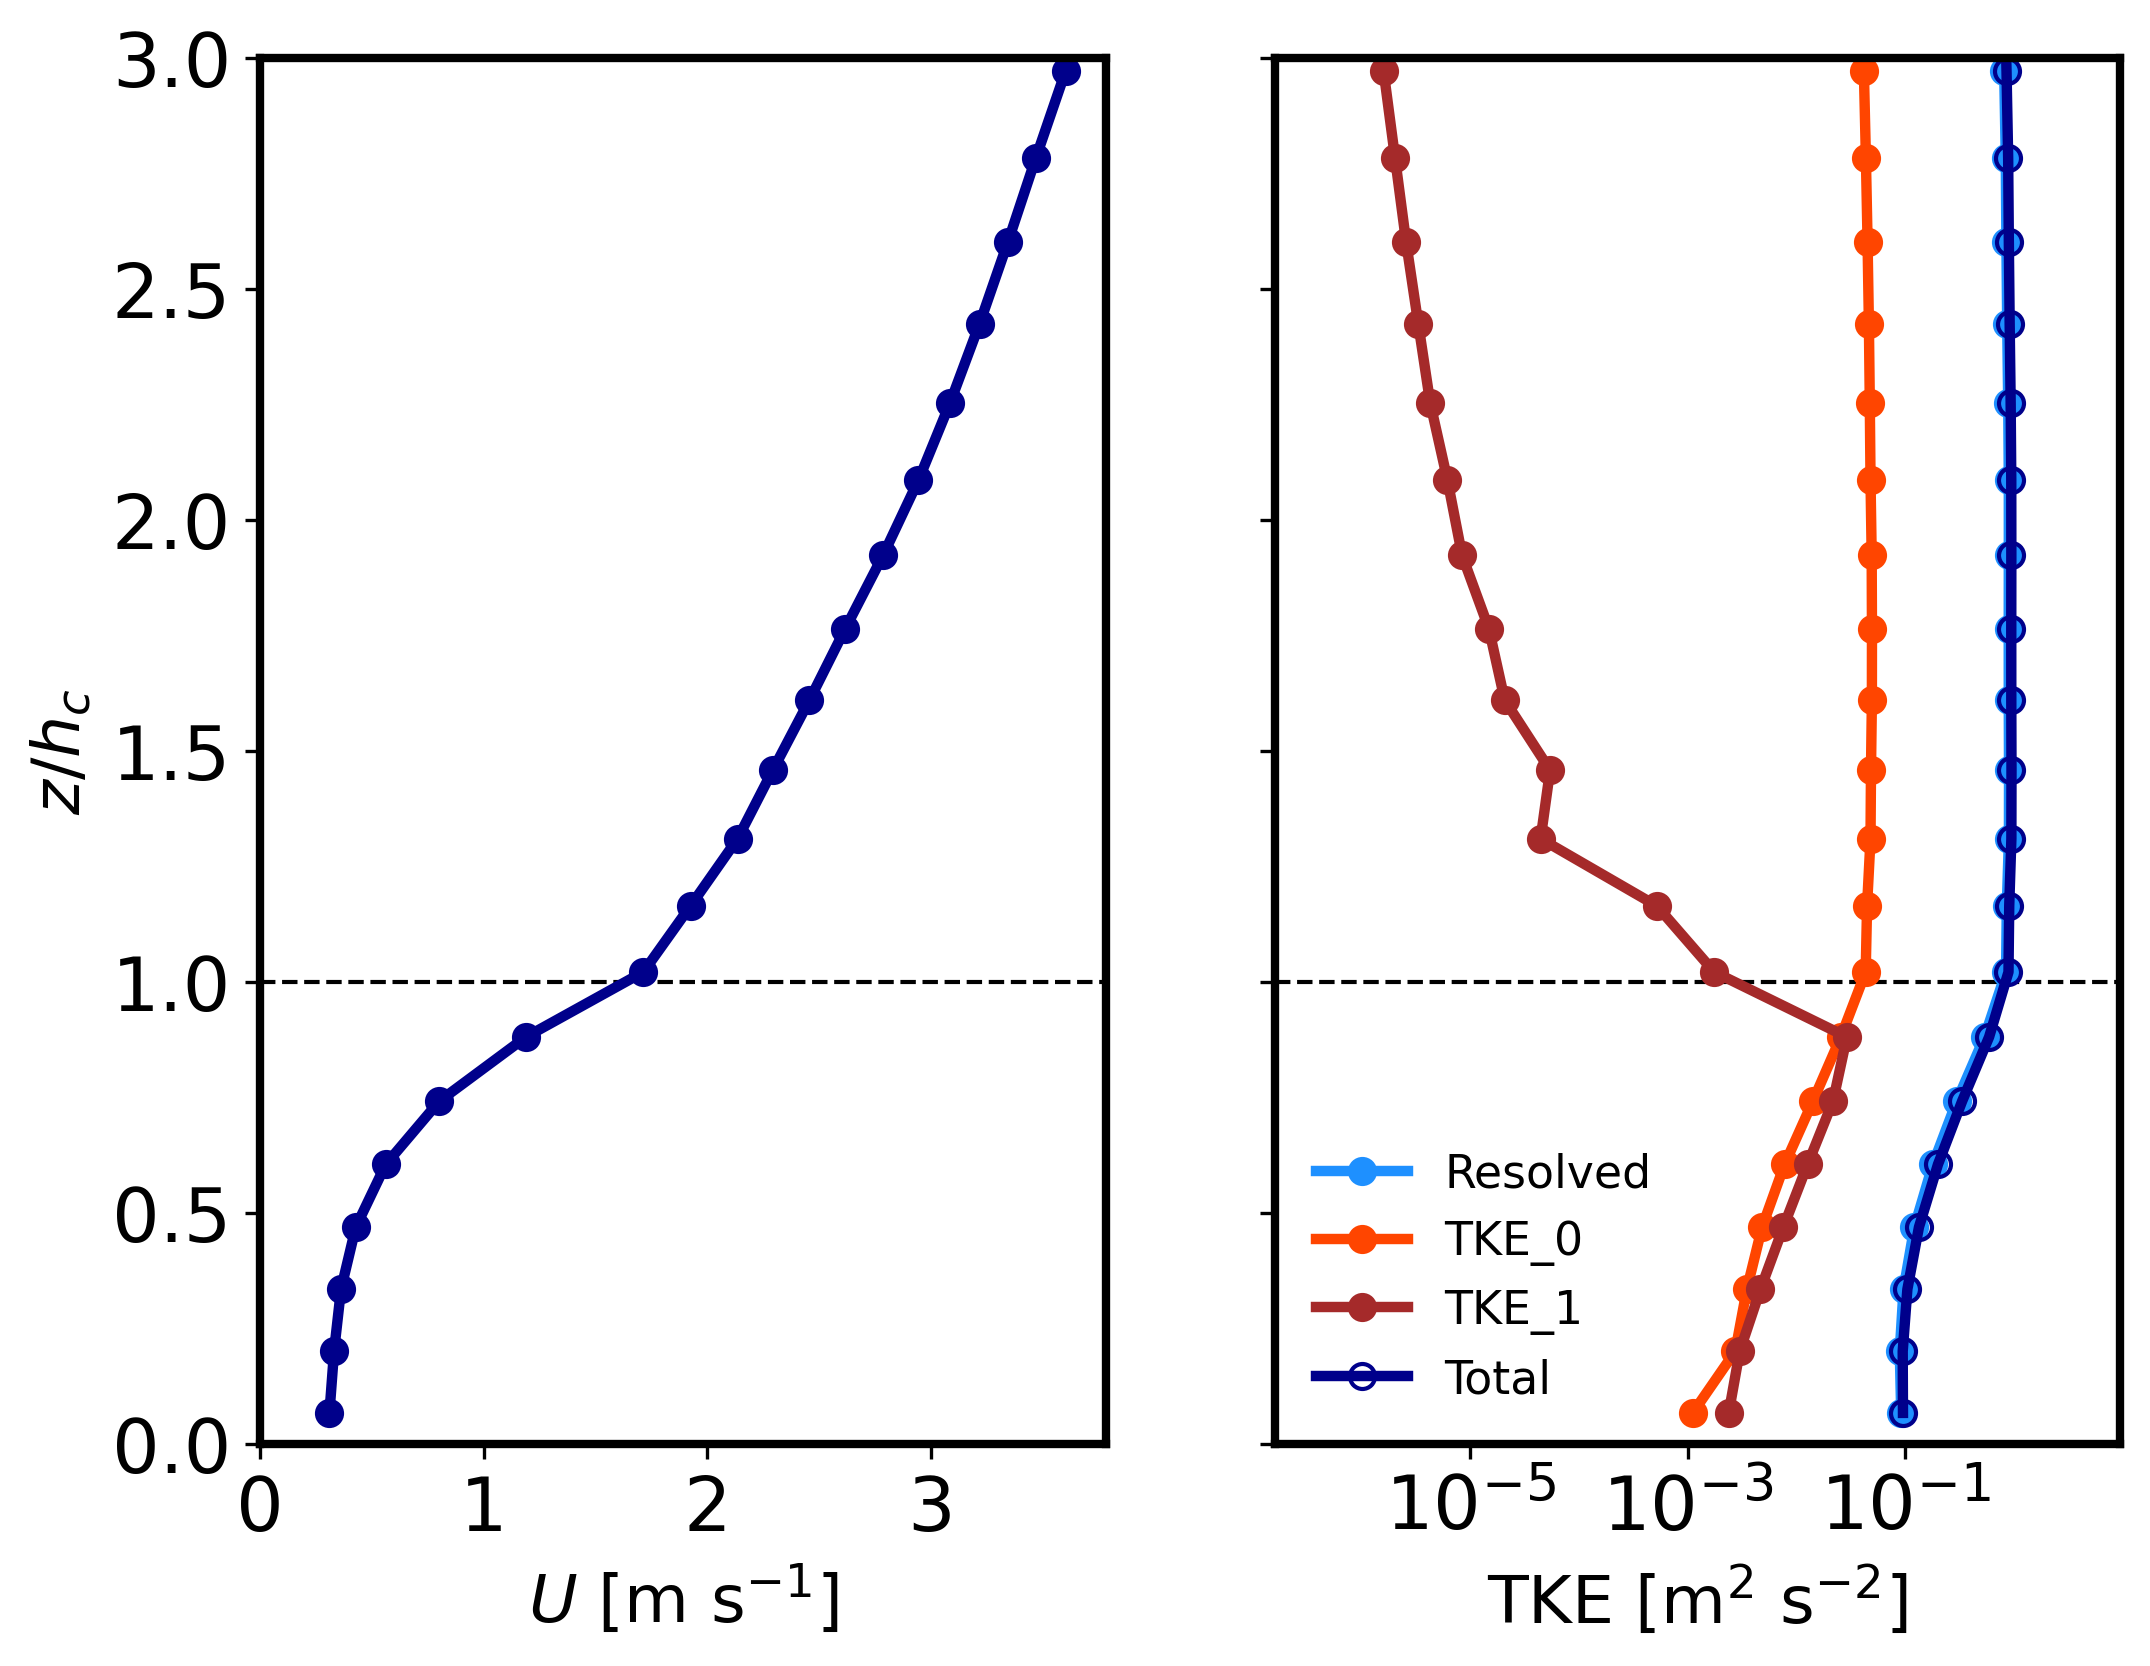
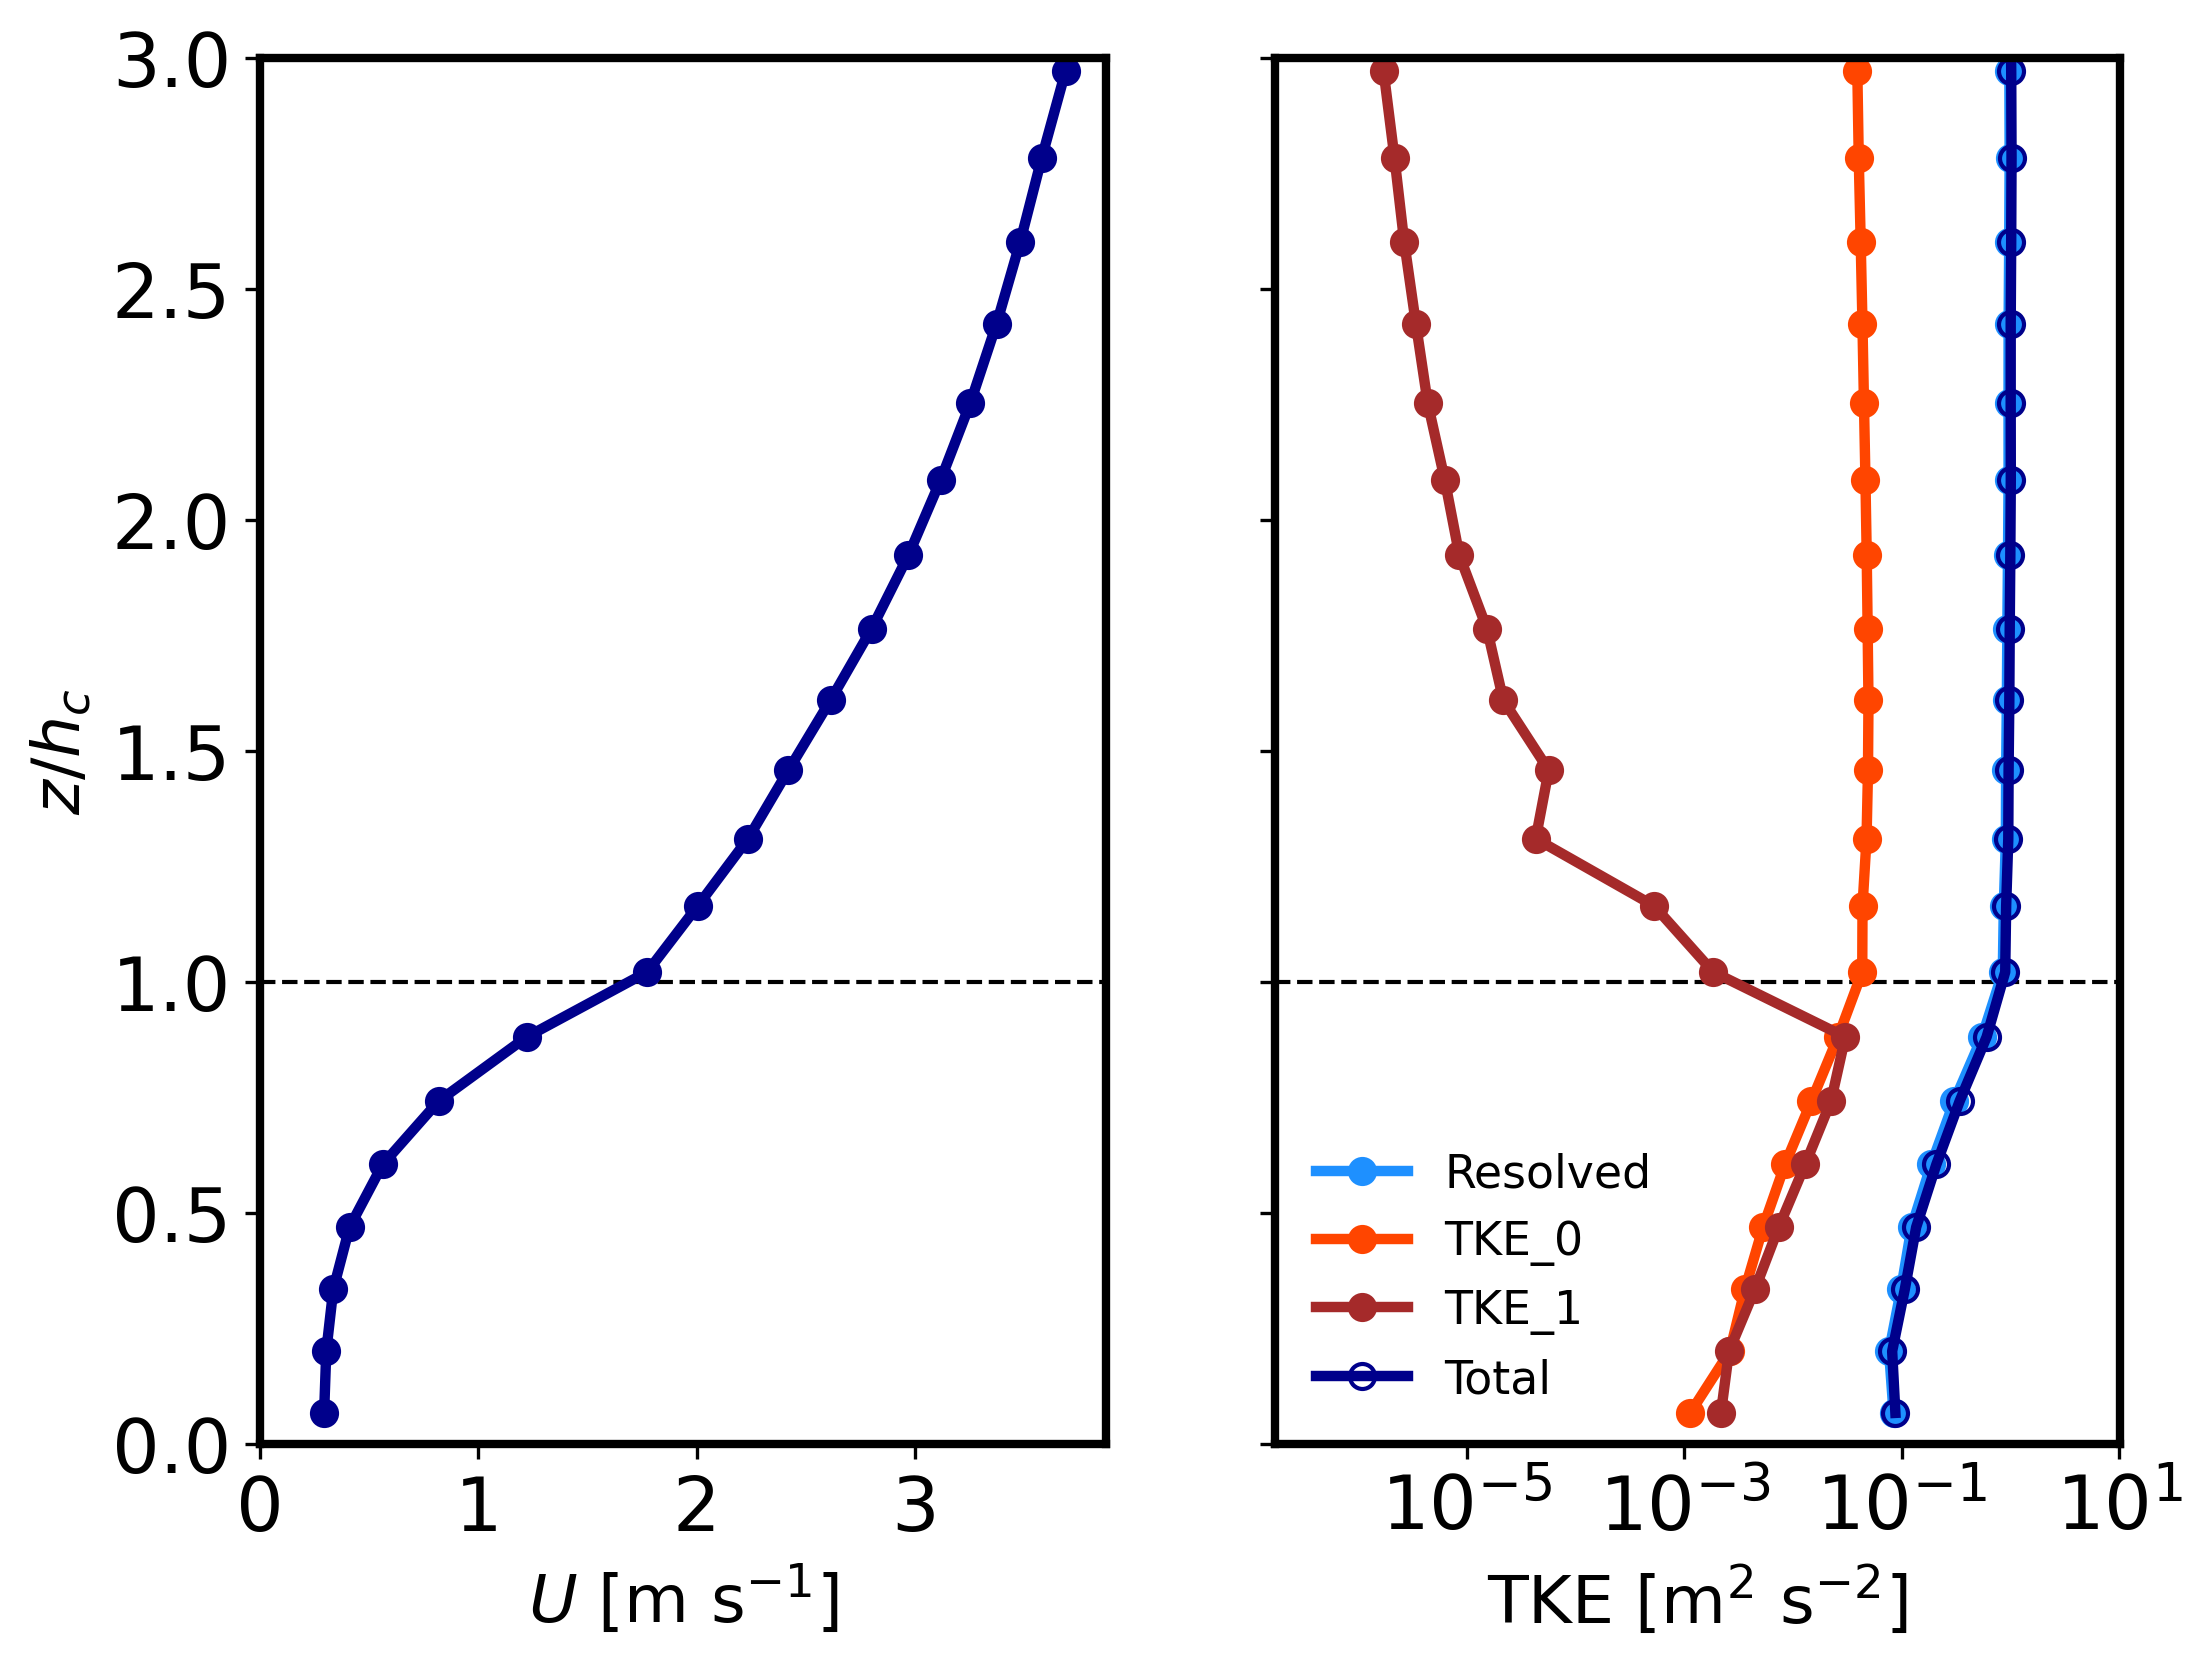
Fixing params files to use vertical 6th order diffusion as intended. Updated canopy tutorial case plots accordingly.

diff --git a/docs/Tutorial/cases/CANOPY.rst b/docs/Tutorial/cases/CANOPY.rst
@@ -30,7 +30,7 @@ Input parameters
     \end{cases} 
 
 * Surface heat flux:  :math:`0.0` Km/s
-* Surface roughness length: :math:`z_0=1e-12` m
+* Surface roughness length: :math:`z_0=1.0 \times 10^{-12}` m
 * Rayleigh damping layer: uppermost :math:`600` m of the domain
 * Initial perturbations: :math:`\pm 0.25` K 
 * Depth of perturbations: :math:`375` m
